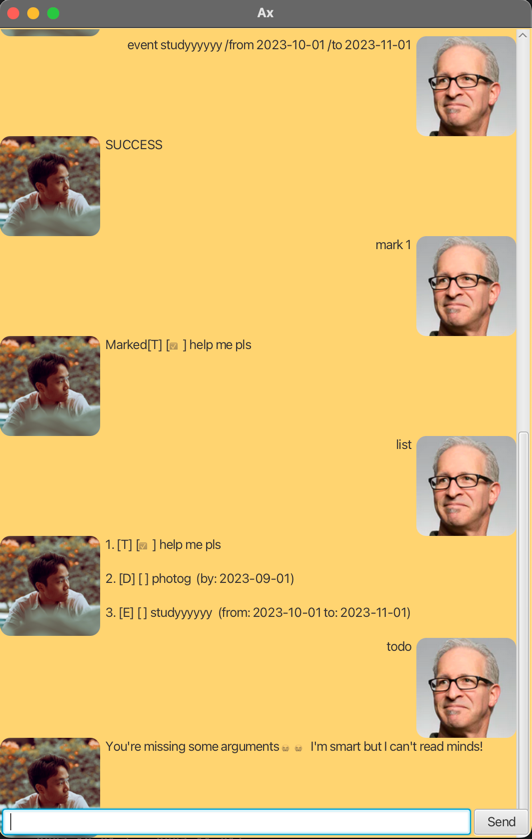
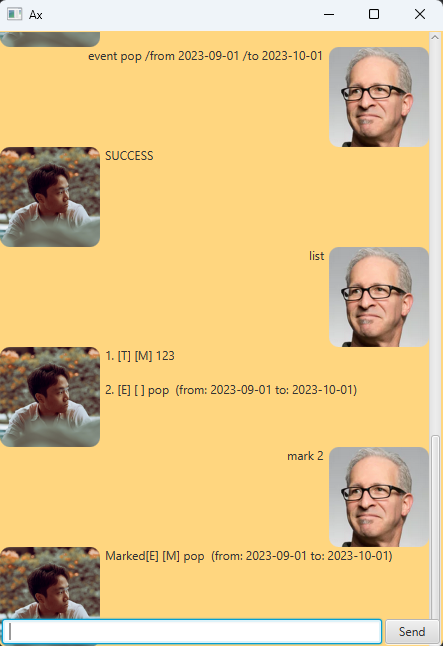
Remove emojis to ensure cross compatability
Update User Guide with new outputs

Update Ui.png with new outputs

diff --git a/src/main/java/ax/commands/Parser.java b/src/main/java/ax/commands/Parser.java
@@ -98,14 +98,14 @@ public class Parser {
             }
         } catch (MissingFormatArgumentException e) {
             System.out.println(
-                    "You're missing some arguments 😭😭 I'm smart but I can't read minds!"
+                    "You're missing some arguments I'm smart but I can't read minds!"
             );
         } catch (NoSuchMethodException e) {
             System.out.println(
-                    "Oh nos what is this foreign language, I haven't learnt that yet 🧑🎓"
+                    "Oh nos what is this foreign language, I haven't learnt that yet "
             );
         } catch (Exception e) {
-            System.out.println("I DONT KNOW WHATS HAPPENING!!! SAVE ME 🆘");
+            System.out.println("I DONT KNOW WHATS HAPPENING!!! SAVE ME ");
             System.out.println("But seriously, its this ");
             System.out.print("error = " + e);
         }
@@ -161,19 +161,19 @@ public class Parser {
             }
         } catch (MissingFormatArgumentException e) {
             System.out.println(
-                    "You're missing some arguments 😭😭 I'm smart but I can't read minds!"
+                    "You're missing some arguments I'm smart but I can't read minds!"
             );
-            return "You're missing some arguments 😭😭 I'm smart but I can't read minds!";
+            return "You're missing some arguments I'm smart but I can't read minds!";
         } catch (NoSuchMethodException e) {
             System.out.println(
-                    "Oh nos what is this foreign language, I haven't learnt that yet 🧑🎓"
+                    "Oh nos what is this foreign language, I haven't learnt that yet "
             );
-            return "Oh nos what is this foreign language, I haven't learnt that yet 🧑🎓";
+            return "Oh nos what is this foreign language, I haven't learnt that yet ";
         } catch (Exception e) {
-            System.out.println("I DONT KNOW WHATS HAPPENING!!! SAVE ME 🆘");
+            System.out.println("I DONT KNOW WHATS HAPPENING!!! SAVE ME ");
             System.out.println("But seriously, its this ");
             System.out.print("error = " + e);
-            return "I DONT KNOW WHATS HAPPENING!!! SAVE ME 🆘"
+            return "I DONT KNOW WHATS HAPPENING!!! SAVE ME "
                     + "But seriously, its this "
                     + "error = " + e;
         }

diff --git a/src/main/java/ax/task/ListItem.java b/src/main/java/ax/task/ListItem.java
@@ -79,7 +79,7 @@ public class ListItem implements Reminders {
     public String toString() {
         if (done) {
             // if done use tickbox
-            return "[✅] " + this.text;
+            return "[M] " + this.text;
         } else {
             return "[ ] " + this.text;
         }

diff --git a/docs/README.md b/docs/README.md
@@ -45,7 +45,7 @@
     ```
     Example: list
     Output:
-    1. [T] [✅] help bob
+    1. [T] [M] help bob
     2. [D] [ ] photog  (by: 2023-09-01)
     3. [E] [ ] studyyyyyy  (from: 2023-10-01 to: 2023-11-01)
     ```
@@ -57,7 +57,7 @@
     ```
     Example: find help
     Output:
-    1. [T] [✅] help bob
+    1. [T] [M] help bob
     ```
    
 6. ### mark
@@ -66,7 +66,7 @@
    ```
     Example: mark 1
     Output:
-    1. [T] [✅] help bob
+    1. [T] [M] help bob
     ```
    
 7. ### unmark
